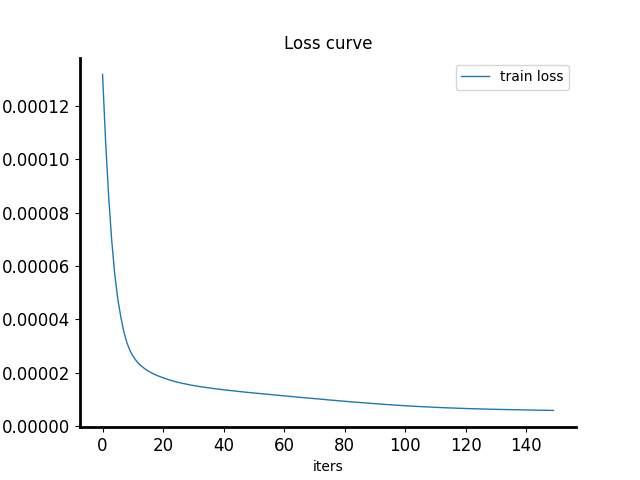
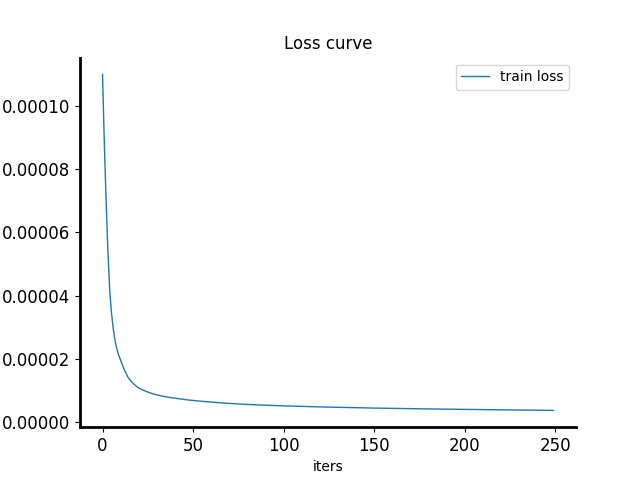
V2.9

diff --git a/test_model.py b/test_model.py
@@ -14,10 +14,12 @@ from pyrfdpd.utils import plot
 import Model.volterra_nn as MCP_NN
 import Model.Mixed_NN as MIX_NN
 import Model.DVR as DVR
+import Model.gmp as gmp
 import Model.DVR_NN as DVR_NN
 import Model.Orth_NN as ORTH_NN
 import Model.VDTDNN as VDTDNN
 import Model.RVTDNN as RVTDNN
+import Model.PNRVTDNN as PNRVTDNN
 import Model.KFC_NN as KFCNN
 import argparse
 import time
@@ -49,6 +51,9 @@ for state in range(1):
 
     # 模型设置
     test_map = [
+        # 'PNRVTDNN_Tanh_30_5_32_32',
+        # 'RVTDNN_Tanh_30_5_32_32',
+        # 'VDTDNN_Tanh_30_5_32_32',
         # 'RVTDNN_Tanh_30_5_32_32',
         # 'RVTDNN_Tanh_30_5_16_16',
         # 'RVTDNN_Tanh_20_5_32_32',
@@ -107,9 +112,18 @@ for state in range(1):
         # 'KFCNN_Tanh_1_5_30',
         # 'KFCNN_Tanh_1_5_20',
         # 'KFCNN_Tanh_1_5_10',
-        'OBDVRNN_ReLU_4_10_20_20',
-        'OBDVRNN_ReLU_4_20_20_20',
-        'OBDVRNN_ReLU_4_30_20_20',
+        # 'OBDVRNN_ReLU_4_10_20_20',
+        # 'OBDVRNN_Tanh_4_10_20_20',
+        # 'OBDVRNN_ReLU_4_20_20_20',
+        # 'OBDVRNN_Tanh_4_20_20_20',
+        # 'OBDVRNN_ReLU_4_20_20',
+        # 'OBDVRNN_Tanh_4_20_20',
+
+        'DVRNN_ReLU_4_20_20',
+        'DVRNN_Tanh_4_20_20',
+        'OBDVRNN_ReLU_4_20',
+        'OBDVRNN_Tanh_4_20',
+        # 'OBDVRNN_ReLU_4_30_20_20',
 
 
 
@@ -123,17 +137,17 @@ for state in range(1):
         # 'OBDVRNN_ReLU_7_5_20_20',
         #
         # # 'OBDVRNN_Tanh_9_30_20_20',
-        # 'OBDVRNN_Tanh_9_20_20_20',
-        # 'OBDVRNN_Tanh_9_10_20_20',
+
+
         # # 'OBDVRNN_Tanh_9_5_20_20',
         # # 'OBDVRNN_Tanh_7_30_20_20',
         # 'OBDVRNN_Tanh_7_20_20_20',
         # 'OBDVRNN_Tanh_7_10_20_20',
         # 'OBDVRNN_Tanh_7_5_20_20',
 
-        'DVRNN_Tanh_5_30_10',
-        'DVRNN_Tanh_7_30_10',
-        'DVRNN_Tanh_9_30_10'
+        # 'DVRNN_Tanh_5_30_10',
+        # 'DVRNN_Tanh_7_30_10',
+        # 'DVRNN_Tanh_9_30_10'
 
     ]
 
@@ -146,12 +160,51 @@ for state in range(1):
     for test_state in test_map:
         count = count + 1
         Model = test_state.split('_')
-        filename = f"{Model[0]}_{time.strftime('%Y%m%d%H')}"
+        filename = f"Modeling_{time.strftime('%Y%m%d%H')}"
         if count ==1:
             parser = argparse.ArgumentParser(description='configTemplates')
             parser.add_argument('-log_path', default='./results/20250525/log/', type=str, help='log file path to save result')
             args = parser.parse_args()
             logger = fun.create_logger(args.log_path, filename)
+
+        if Model[0] == 'DVR':  # DVR [K,M]
+            # 参数设置
+            M = ast.literal_eval(Model[2])
+            threshold = ast.literal_eval(Model[3])
+            K = len(threshold)
+
+            filename = f"DVR_K{K}_M{M}_threshold{threshold}_{time.strftime('%Y%m%d%H%M')}"
+            logger.info(f'------signal BW{BW / 1e6}M fs{fs / 1e6}MHz------')
+
+            # print(f'------------------------{Model}_M{M}_{layer_dims}_{activation}-------------------------------')
+            logger.info(f'------------------------{Model[0]}_M{M}_K{K}-------------------------------')
+            # 初始化模型
+            dvr = DVR.DVR(M=M, threshold=threshold)
+            coef = dvr.DVR_e(x_train, y_train, alpha=1e-3)
+            y_pred = dvr.DVR_v(x_train, coef)
+            logger.info(f'{Model[0]} train NMSE:')
+            NMSE = cal.nmse(y_train[M + 11:], y_pred[M + 11:], logger, 1)
+            y_pred = dvr.DVR_v(x, coef)
+            logger.info(f'{Model[0]} coef num {len(coef)}')
+
+        if Model[0] == 'GMP':
+            K = ast.literal_eval(Model[1])  # [int(num) for num in re.findall(r'\d+', Model[1])]
+            L = ast.literal_eval(Model[2])  # [int(num) for num in re.findall(r'\d+', Model[2])]
+            M = ast.literal_eval(Model[3])  # [int(num) for num in re.findall(r'\d+', Model[3])]
+            GMP = gmp.GMP(K, L, M)
+            filename = f"GMP_K{K}_L{L}_M{M}_{time.strftime('%Y%m%d%H%M')}"
+            logger.info(f'----------------{Model[0]}_K{K}_L{L}_M{M}--------------------')
+            start_time = time.time()  # 记录开始时间
+            coef = GMP.model_e(x_train, y_train)
+            end_time = time.time()  # 记录结束时间
+            elapsed_time = end_time - start_time
+            # logger.info(f"model train time: {elapsed_time:.6f} s")
+            y_pred = GMP.model_v(x_train, coef)
+            logger.info(f'{Model[0]} train NMSE:')
+            NMSE = cal.nmse(y_train[M + 11:], y_pred[M + 11:], logger, 1)
+            logger.info(f'{Model[0]} coef num {len(coef)}')
+            y_pred = GMP.model_v(x, coef)
+
 
         if Model[0] == 'KFCNN':
             # 参数设置
@@ -244,7 +297,7 @@ for state in range(1):
 
             if total_train == 1:
                 # model.load_state_dict(torch.load(trained_model))
-                model.model_train(x_train,y_train,model_path, logger,1,para = [0.001,150,4096])
+                model.model_train(x_train,y_train,model_path, logger,1,para = [0.001,250,4096])
                 model.load_state_dict(torch.load(model_path))
                 logger.info(f"-------------------load model: {model_path}---------------------")
                 start_time = time.time()  # 记录开始时间
@@ -331,6 +384,48 @@ for state in range(1):
                 x_window = torch.from_numpy(sequences).to(device)
                 X = model.get_basis(x_window)
 
+        if Model[0] == 'PNRVTDNN':
+            activation = Model[1]
+            M = ast.literal_eval(Model[2])
+            K = ast.literal_eval(Model[3])
+            layer_dims = []
+
+            input_size = 2 * (M + 1) + K * (M + 1)-1  # 输入维度
+            output_size = 2  # 输出维度
+            layer_dims.append(input_size)
+            for size_str in Model[4:]:
+                size = ast.literal_eval(size_str)
+                layer_dims.append(size)
+            layer_dims.append(output_size)
+            model_path = f"results/20250519/save/{Model[0]}_M{M}_K{K}_Layer_{layer_dims}_{activation}_{time.strftime('%Y%m%d%H%M')}.pt"
+
+            trained_model = 'results/20250519/save/VDTDNN_M15_Tanh_202507292246.pt'  # 400M
+            logger.info(f'------signal BW{BW / 1e6}M fs{fs / 1e6}MHz------')
+            logger.info(f'------------------------{Model[0]}_M{M}_K{K}_layer{layer_dims}_{activation}-------------------------------')
+            # 初始化模型
+            model = PNRVTDNN.PNRVTDNN(layer_dims, M=M, K=K, activation=activation).double().to(device)
+            fun.model_structure(model, logger)
+
+            if total_train == 1:
+                # model.load_state_dict(torch.load(trained_model))
+                model.model_train(x_train, y_train, model_path, logger, [0.001,350,512])
+                model.load_state_dict(torch.load(model_path))
+                logger.info(f"-------------------load model: {model_path}---------------------")
+                start_time = time.time()  # 记录开始时间
+                y_pred = model.apply_dpd(x)#, model.coef)
+                end_time = time.time()  # 记录结束时间
+                elapsed_time = end_time - start_time
+                logger.info(f"model prediction time: {elapsed_time:.6f} s")
+            else:
+                # N_train = min(50000, len(x_train))
+                model.load_state_dict(torch.load(trained_model))
+                logger.info(f"-------------------load model: {model_path}---------------------")
+                start_time = time.time()  # 记录开始时间
+                y_pred = model.apply_dpd(x)#, model.coef)
+                end_time = time.time()  # 记录结束时间
+                elapsed_time = end_time - start_time
+                logger.info(f"model prediction time: {elapsed_time:.6f} s")
+
         if Model[0] == 'VDTDNN':
             activation = Model[1]
             M = ast.literal_eval(Model[2])
@@ -402,7 +497,7 @@ for state in range(1):
 
             if total_train == 1:
                 # model.load_state_dict(torch.load(trained_model))
-                model.model_train(x_train, y_train, model_path, logger,para = [0.001,350,512])
+                model.model_train(x_train, y_train, model_path, logger,para = [0.001,450,512])
                 model.load_state_dict(torch.load(model_path))
                 logger.info(f"-------------------load model: {model_path}---------------------")
                 start_time = time.time()  # 记录开始时间

diff --git a/test_main.py b/test_main.py
@@ -13,6 +13,7 @@ import Model.DVR_NN as DVR_NN
 import Model.VDTDNN as VDTDNN
 import Model.RVTDNN as RVTDNN
 import Model.KFC_NN as KFCNN
+import Model.PNRVTDNN as PNRVTDNN
 import argparse
 import time
 from function import align
@@ -323,6 +324,44 @@ for test_state in test_map:
         pa_output = PA_board.transmit(pa_input, logger)
         savemat(f"{mat_path}/{Model[0]}_K{K}_M{M}_{time.strftime('%Y%m%d%H%M')}.mat", {'x':x,'u':pa_input,'y_withDPD':pa_output})
         logger.info(f"save mat_file to {mat_path}/{Model[0]}_K{K}_M{M}_{time.strftime('%Y%m%d%H%M')}.mat")
+
+    if Model[0] == 'PNRVTDNN':
+        activation = Model[1]
+        M = ast.literal_eval(Model[2])
+        K = ast.literal_eval(Model[3])
+        layer_dims = []
+
+        input_size = 2 * (M + 1) + K * (M + 1) -1  # 输入维度
+        output_size = 2  # 输出维度
+        layer_dims.append(input_size)
+        for size_str in Model[4:]:
+            size = ast.literal_eval(size_str)
+            layer_dims.append(size)
+        layer_dims.append(output_size)
+        model_path = f"{filepath}/model/{Model[0]}_M{M}_K{K}_{activation}_{time.strftime('%Y%m%d%H%M')}.pt"
+
+        trained_model = 'results/20250519/save/VDTDNN_M15_Tanh_202507292246.pt'  # 400M
+        logger.info(f'------signal BW{BW / 1e6}M fs{fs / 1e6}MHz------')
+        logger.info(
+            f'------------------------{Model[0]}_M{M}_K{K}_layer{layer_dims}_{activation}-------------------------------')
+        # 初始化模型
+        model = PNRVTDNN.PNRVTDNN(layer_dims, M=M, K=K, activation=activation).double().to(device)
+        fun.model_structure(model, logger)
+
+        # model.load_state_dict(torch.load(trained_model))
+        model.model_train(x_train, ilc_out_train, model_path, logger, [0.001, 350, 512])
+        model.load_state_dict(torch.load(model_path))
+        logger.info(f"-------------------load model: {model_path}---------------------")
+        start_time = time.time()  # 记录开始时间
+        pa_input = model.apply_dpd(x)  # , model.coef)
+        end_time = time.time()  # 记录结束时间
+        elapsed_time = end_time - start_time
+        logger.info(f"model prediction time: {elapsed_time:.6f} s")
+
+        pa_output = PA_board.transmit(pa_input, logger)
+        savemat(f"{mat_path}/{Model[0]}_K{K}_M{M}_Layer_{layer_dims}_{time.strftime('%Y%m%d%H%M')}.mat",{'x': x, 'u': pa_input, 'y_withDPD': pa_output})
+        logger.info(f"save mat_file to {mat_path}/{Model[0]}_K{K}_M{M}_Layer_{layer_dims}_{time.strftime('%Y%m%d%H%M')}.mat")
+
 
     if Model[0] == 'VDTDNN':
         # 参数设置

diff --git a/Model/PNRVTDNN.py b/Model/PNRVTDNN.py
@@ -54,10 +54,20 @@ class PNRVTDNN(nn.Module):
         #     X = torch.concat((X,X_k), dim=1)
         x_real = X_norm.real
         x_imag = X_norm.imag
+        # 剪枝当前时刻的虚部 (因为归一化后它为0)
+        x_imag = x_imag[:, :-1]  # 去掉最后一列（当前时刻）
         # x_real = x_real.view(len(x_real), -1)
         x = torch.cat((x_real, x_imag,envelope_features), dim=1)
-        y_pred = self.layers(x)
+        y_norm = self.layers(x)
 
+        # 提取I和Q分量
+        Y_I = y_norm[:, 0]
+        Y_Q = y_norm[:, 1]
+
+        # 相位反归一化 - 关键步骤！
+        y_hat = torch.conj(r) * (Y_I + 1j * Y_Q)
+
+        y_pred = torch.view_as_real(y_hat).view(len(y_hat), -1)
         return y_pred
 
 
@@ -140,7 +150,7 @@ class PNRVTDNN(nn.Module):
                 best_model = self.state_dict()
             # print(f'Epoch {epoch + 1:02} | Train Loss: {train_loss / len(train_loader):.6f} | Val Loss: {val_loss / len(val_loader):.6f} | save:{save}')
             logger.info(
-                f'Epoch {epoch + 1:02} | Train Loss: {train_loss / len(train_loader):.6f} | Val Loss: {val_loss / len(val_loader):.6f} | save:{save}')
+                f'Epoch {epoch + 1:02} | Train Loss: {train_loss / len(train_loader):.7f} | Val Loss: {val_loss / len(val_loader):.7f} | save:{save}')
             if save == 0:
                 nosave_count = nosave_count + 1
             else:

diff --git a/Model/KFC_NN.py b/Model/KFC_NN.py
@@ -26,7 +26,7 @@ class KFC_NN(nn.Module):
         self.phase_layers = nn.Sequential()
 
         layer_dims_amp = [M2 + 1, M2+M ,(M + 1) * K]
-        layer_dims_phase = [2 * (M2 + 1),(M2 + 1),(M + 1) * K * 2]
+        layer_dims_phase = [2 * (M2 + 1),(M2 + M),(M + 1) * K * 2]
         for index, (in_dim, out_dim) in enumerate(zip(layer_dims_amp[:-1], layer_dims_amp[1:])):
             self.DVR_layers.add_module("linear " + str(index), nn.Linear(in_dim, out_dim).double())
             if activation == "ReLU":

diff --git a/test_polynomial.py b/test_polynomial.py
@@ -1,5 +1,3 @@
-
-
 import matplotlib
 matplotlib.use('Agg')
 # import matplotlib.pyplot as plt
